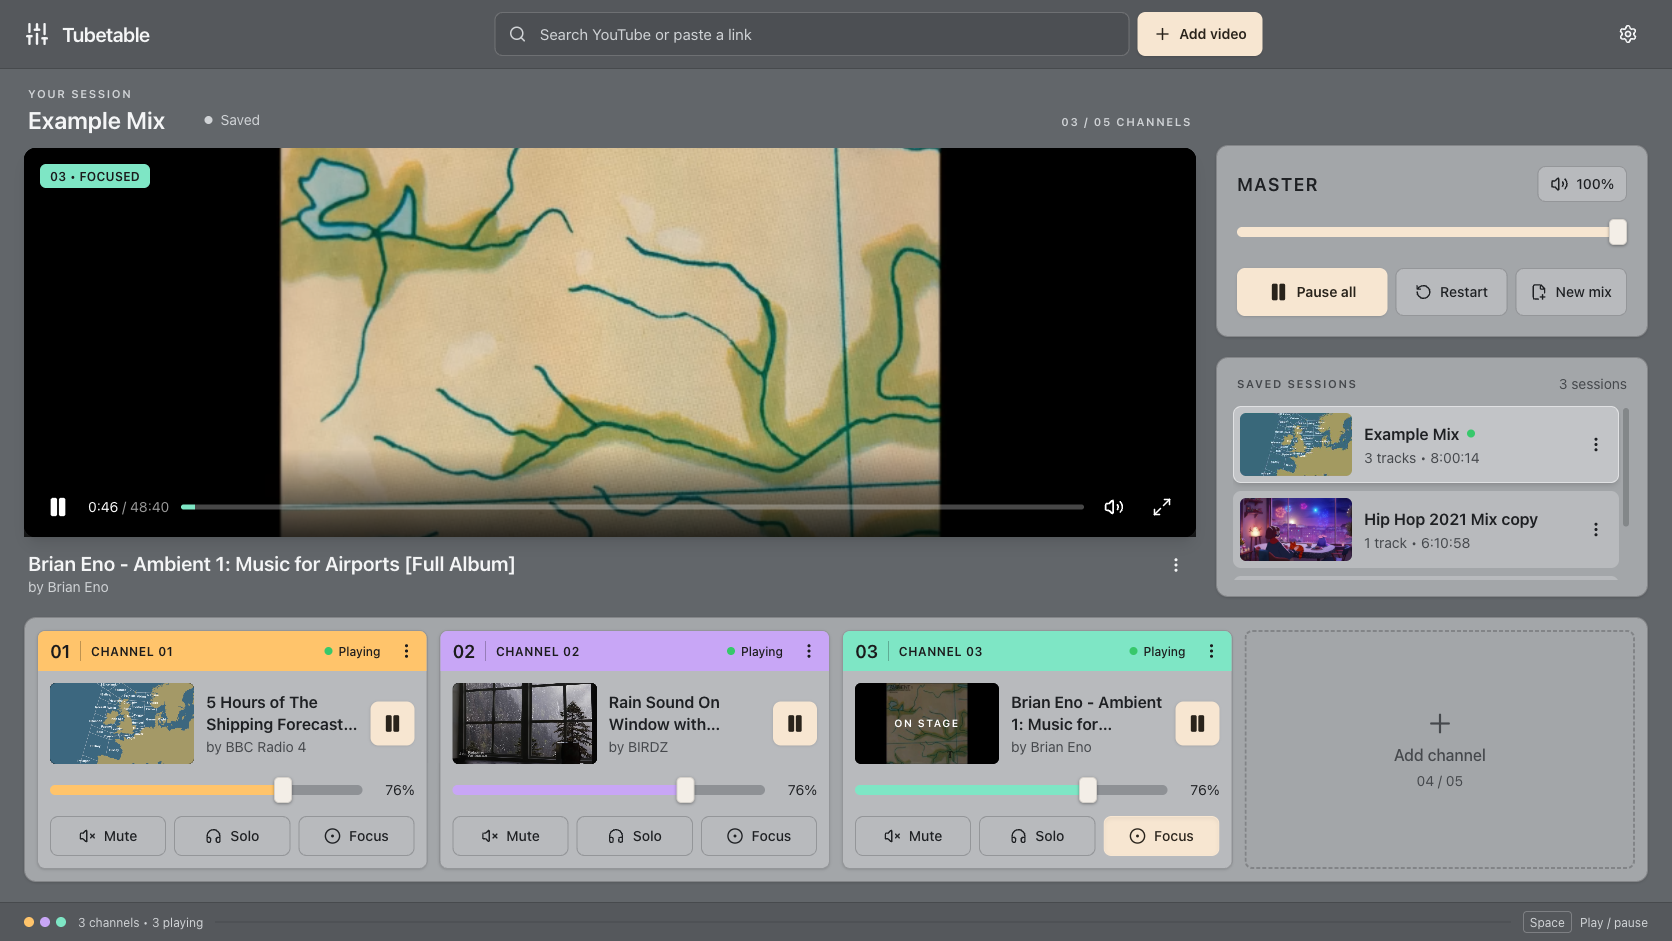
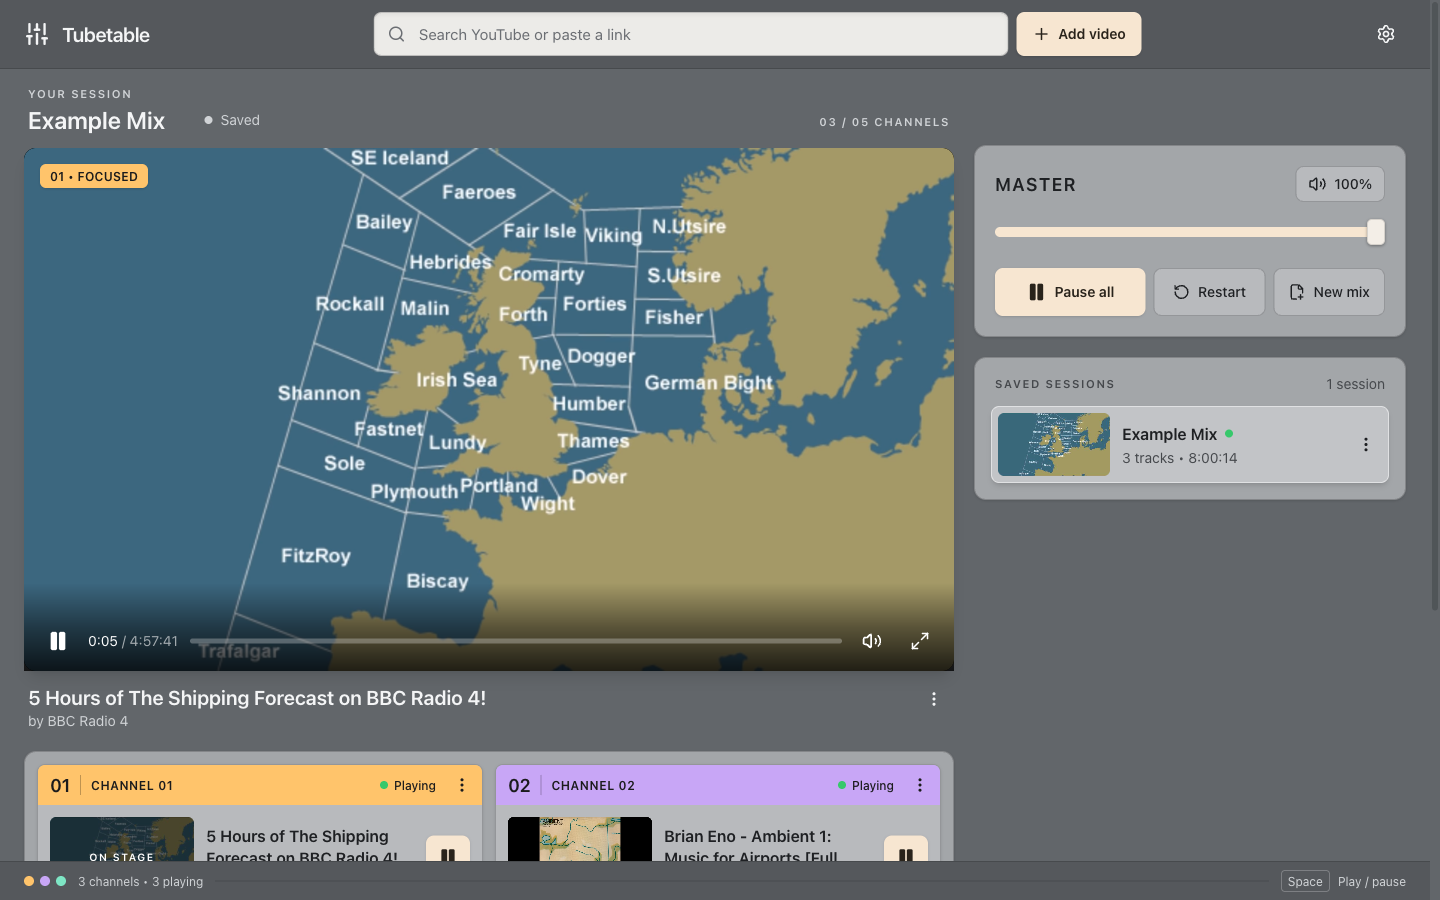
Give the stage its natural 16:9 height, let the sidebar grow and lighten the search field

diff --git a/src/App.tsx b/src/App.tsx
@@ -575,8 +575,8 @@ export function App() {
         />
       </div>
 
-      <main className="mx-auto grid w-full max-w-[1760px] flex-1 grid-cols-1 content-start gap-4 px-3 py-4 sm:px-6 xl:grid-cols-[minmax(0,1fr)_minmax(22rem,27rem)] xl:gap-5">
-        <div className="min-w-0 space-y-3 xl:col-start-1 xl:row-start-1">
+      <main className="mx-auto grid w-full max-w-[1760px] flex-1 grid-cols-1 content-start items-start gap-4 px-3 py-4 sm:px-6 xl:grid-cols-[minmax(0,1fr)_minmax(22rem,27rem)] xl:gap-5">
+        <div className="min-w-0 space-y-3">
           <div className={hiddenWhileExpanded}>
             <SessionHeader
               channelCount={channels.length}
@@ -604,23 +604,20 @@ export function App() {
             onTogglePlay={() => stageChannel && toggleChannelPlay(stageChannel.id)}
             status={stageChannel ? playerStatuses[stageChannel.id] : undefined}
           />
+          <div className={`pt-2 ${hiddenWhileExpanded}`}>
+            <ChannelTray
+              cards={cards}
+              onAddChannel={focusSearch}
+              onChangeVolume={(channelId, volume) => updateChannel(channelId, channel => ({ ...channel, volume }))}
+              onFocus={focusChannel}
+              onToggleMute={channelId => updateChannel(channelId, channel => ({ ...channel, muted: !channel.muted }))}
+              onTogglePlay={toggleChannelPlay}
+              onToggleSolo={channelId => updateChannel(channelId, channel => ({ ...channel, solo: !channel.solo }))}
+            />
+          </div>
         </div>
 
-        <div className={`min-w-0 xl:col-span-2 xl:row-start-2 ${hiddenWhileExpanded}`}>
-          <ChannelTray
-            cards={cards}
-            onAddChannel={focusSearch}
-            onChangeVolume={(channelId, volume) => updateChannel(channelId, channel => ({ ...channel, volume }))}
-            onFocus={focusChannel}
-            onToggleMute={channelId => updateChannel(channelId, channel => ({ ...channel, muted: !channel.muted }))}
-            onTogglePlay={toggleChannelPlay}
-            onToggleSolo={channelId => updateChannel(channelId, channel => ({ ...channel, solo: !channel.solo }))}
-          />
-        </div>
-
-        <aside
-          className={`flex min-w-0 flex-col gap-4 xl:col-start-2 xl:row-start-1 xl:gap-5 xl:pt-[3.75rem] xl:[contain:size] ${hiddenWhileExpanded}`}
-        >
+        <aside className={`flex min-w-0 flex-col gap-4 xl:gap-5 xl:pt-[3.75rem] ${hiddenWhileExpanded}`}>
           <MasterPanel
             anyPlaying={anyPlaying}
             hasChannels={channels.length > 0}

diff --git a/src/components/SearchBar.tsx b/src/components/SearchBar.tsx
@@ -110,13 +110,13 @@ export function SearchBar({
             <Loader2
               size={18}
               aria-hidden="true"
-              className="pointer-events-none absolute left-3.5 top-1/2 -translate-y-1/2 animate-spin text-fg-muted"
+              className="pointer-events-none absolute left-3.5 top-1/2 -translate-y-1/2 animate-spin text-field-muted"
             />
           ) : (
             <Search
               size={18}
               aria-hidden="true"
-              className="pointer-events-none absolute left-3.5 top-1/2 -translate-y-1/2 text-fg-muted"
+              className="pointer-events-none absolute left-3.5 top-1/2 -translate-y-1/2 text-field-muted"
             />
           )}
           <input
@@ -137,7 +137,7 @@ export function SearchBar({
             }}
             placeholder={canAddMore ? "Search YouTube or paste a link" : "All five channels are in use"}
             disabled={!canAddMore}
-            className="h-11 w-full rounded-lg border border-fg/20 bg-black/10 pl-11 pr-3 text-[0.95rem] text-fg outline-none transition placeholder:text-fg-muted hover:border-fg/35 focus:border-focus focus:bg-black/15 disabled:cursor-not-allowed disabled:opacity-60"
+            className="h-11 w-full rounded-lg border border-line bg-field pl-11 pr-3 text-[0.95rem] text-field-ink shadow-inner outline-none transition placeholder:text-field-muted hover:bg-white focus:border-focus focus:bg-white focus:ring-2 focus:ring-focus/40 disabled:cursor-not-allowed disabled:opacity-60"
           />
         </label>
 

diff --git a/src/components/uiContracts.test.ts b/src/components/uiContracts.test.ts
@@ -39,6 +39,20 @@ describe("UI interaction contracts", () => {
     expect(stage).toContain('expanded ? "fixed inset-0 z-50" : "absolute inset-0 z-20"');
   });
 
+  test("keeps the stage at the video's own 16:9 shape instead of capping its height", () => {
+    const stage = readSource("src/components/Stage.tsx");
+
+    expect(stage).toContain('"relative aspect-video w-full overflow-hidden rounded-xl bg-black shadow-lg"');
+    expect(stage).not.toContain("max-h-");
+  });
+
+  test("lets the sidebar take its natural height beside both the stage and the channels", () => {
+    const app = readSource("src/App.tsx");
+
+    expect(app).not.toContain("contain:size");
+    expect(readSource("src/components/SessionsPanel.tsx")).not.toContain("max-h-");
+  });
+
   test("uses a range input with a spoken time for the stage scrubber", () => {
     const stage = readSource("src/components/Stage.tsx");
 

diff --git a/src/components/SessionsPanel.tsx b/src/components/SessionsPanel.tsx
@@ -27,7 +27,7 @@ export function SessionsPanel({
   savedMixes,
 }: SessionsPanelProps) {
   return (
-    <section aria-labelledby="sessions-heading" className={`${panelClassName} flex min-h-0 flex-col p-3 sm:p-4`}>
+    <section aria-labelledby="sessions-heading" className={`${panelClassName} p-3 sm:p-4`}>
       <div className="flex items-center justify-between gap-3 px-1">
         <h2 id="sessions-heading" className={`${eyebrowClassName} text-sm text-ink-muted`}>
           Saved sessions
@@ -38,7 +38,7 @@ export function SessionsPanel({
       </div>
 
       {savedMixes.length > 0 ? (
-        <ul className="mt-3 max-h-[26rem] min-h-0 space-y-2 overflow-y-auto pr-0.5 xl:max-h-none">
+        <ul className="mt-3 space-y-2">
           {savedMixes.map(mix => {
             const isCurrent = mix.id === currentMixKey;
             const name = sessionDisplayName(mix);

diff --git a/src/index.css b/src/index.css
@@ -19,6 +19,9 @@
   --color-live: var(--tt-live);
   --color-danger: var(--tt-danger);
   --color-focus: var(--tt-focus);
+  --color-field: var(--tt-field);
+  --color-field-ink: var(--tt-field-ink);
+  --color-field-muted: var(--tt-field-muted);
 }
 
 @layer base {
@@ -43,6 +46,10 @@
     --tt-danger: #b3261e;
     --tt-focus: #8ec8ff;
     --tt-thumb: #f3eee7;
+    /* Text fields: a near-white well with dark text, in every theme. */
+    --tt-field: #ecebe8;
+    --tt-field-ink: #1e2023;
+    --tt-field-muted: #6b6e73;
   }
 
   :root[data-theme="dark"] {
@@ -78,6 +85,7 @@
     --tt-accent-ink: #f7e6d1;
     --tt-focus: #2f7de1;
     --tt-thumb: #ffffff;
+    --tt-field: #ffffff;
   }
 
   body {

diff --git a/src/components/Stage.tsx b/src/components/Stage.tsx
@@ -53,7 +53,7 @@ export function Stage({
 }: StageProps) {
   const boxClassName = expanded
     ? "fixed inset-0 z-[5] bg-black"
-    : "relative aspect-video max-h-[max(16rem,calc(100vh-34.5rem))] w-full overflow-hidden rounded-xl bg-black shadow-lg";
+    : "relative aspect-video w-full overflow-hidden rounded-xl bg-black shadow-lg";
 
   if (!channel) {
     return (
